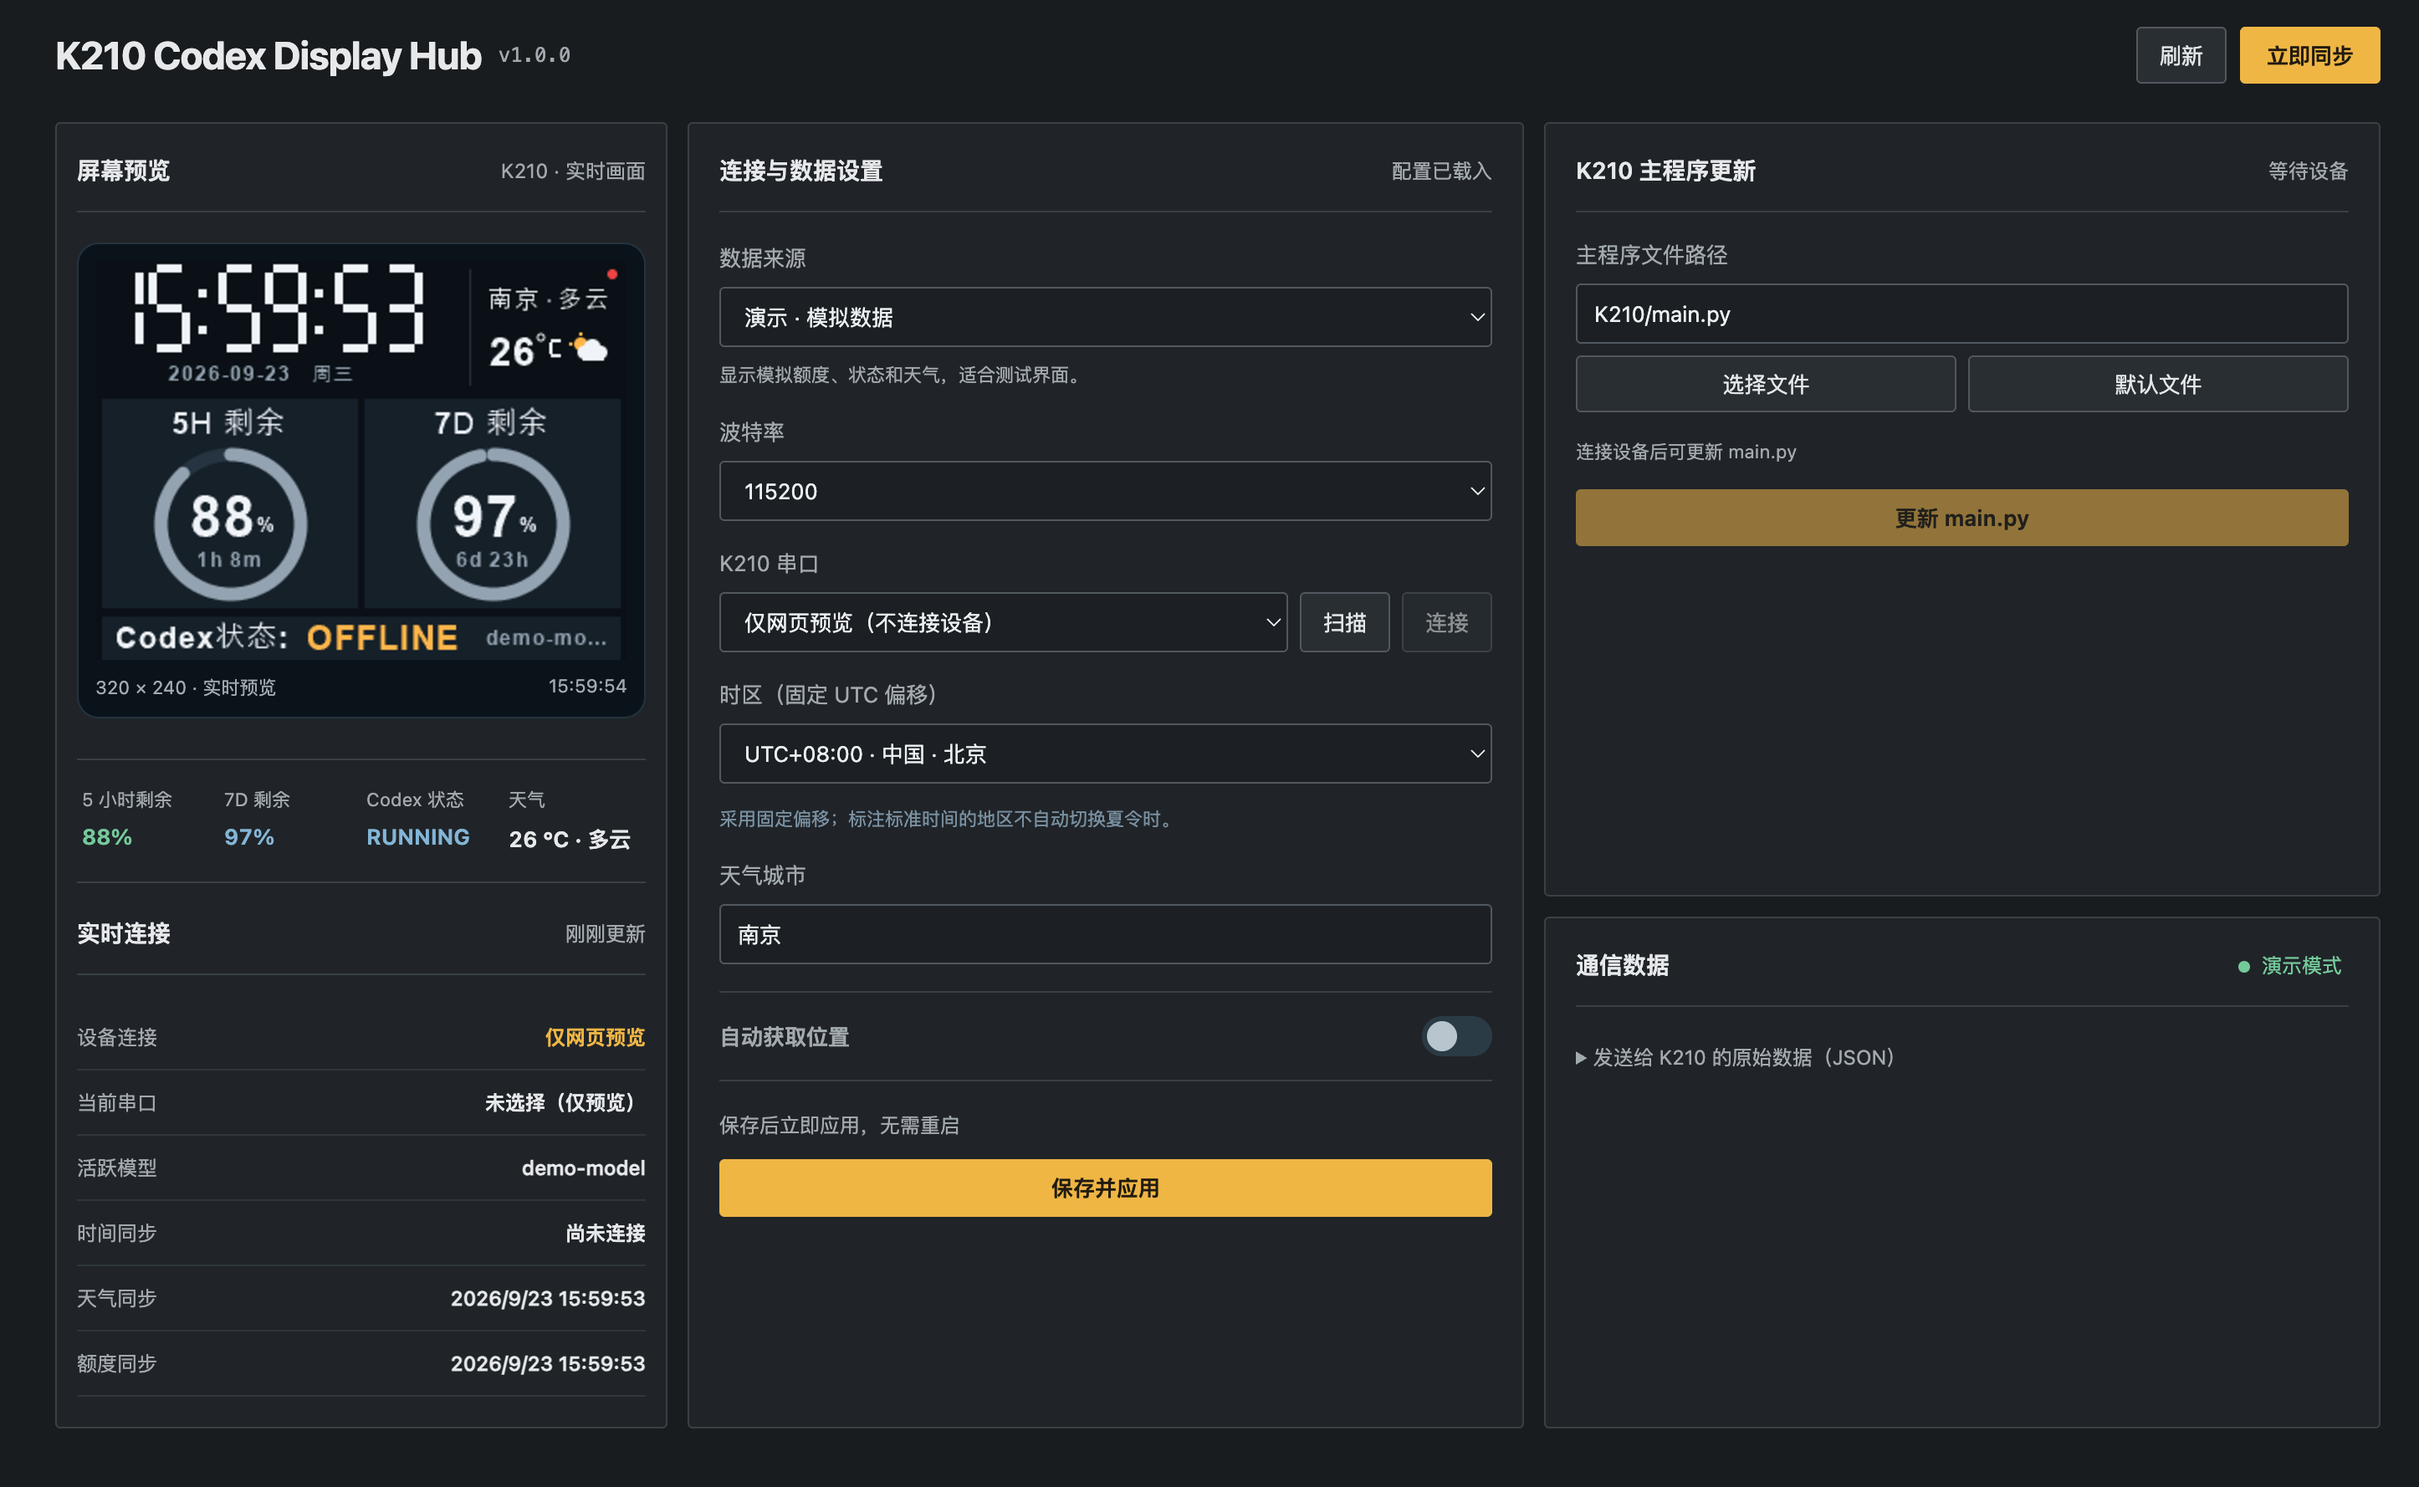
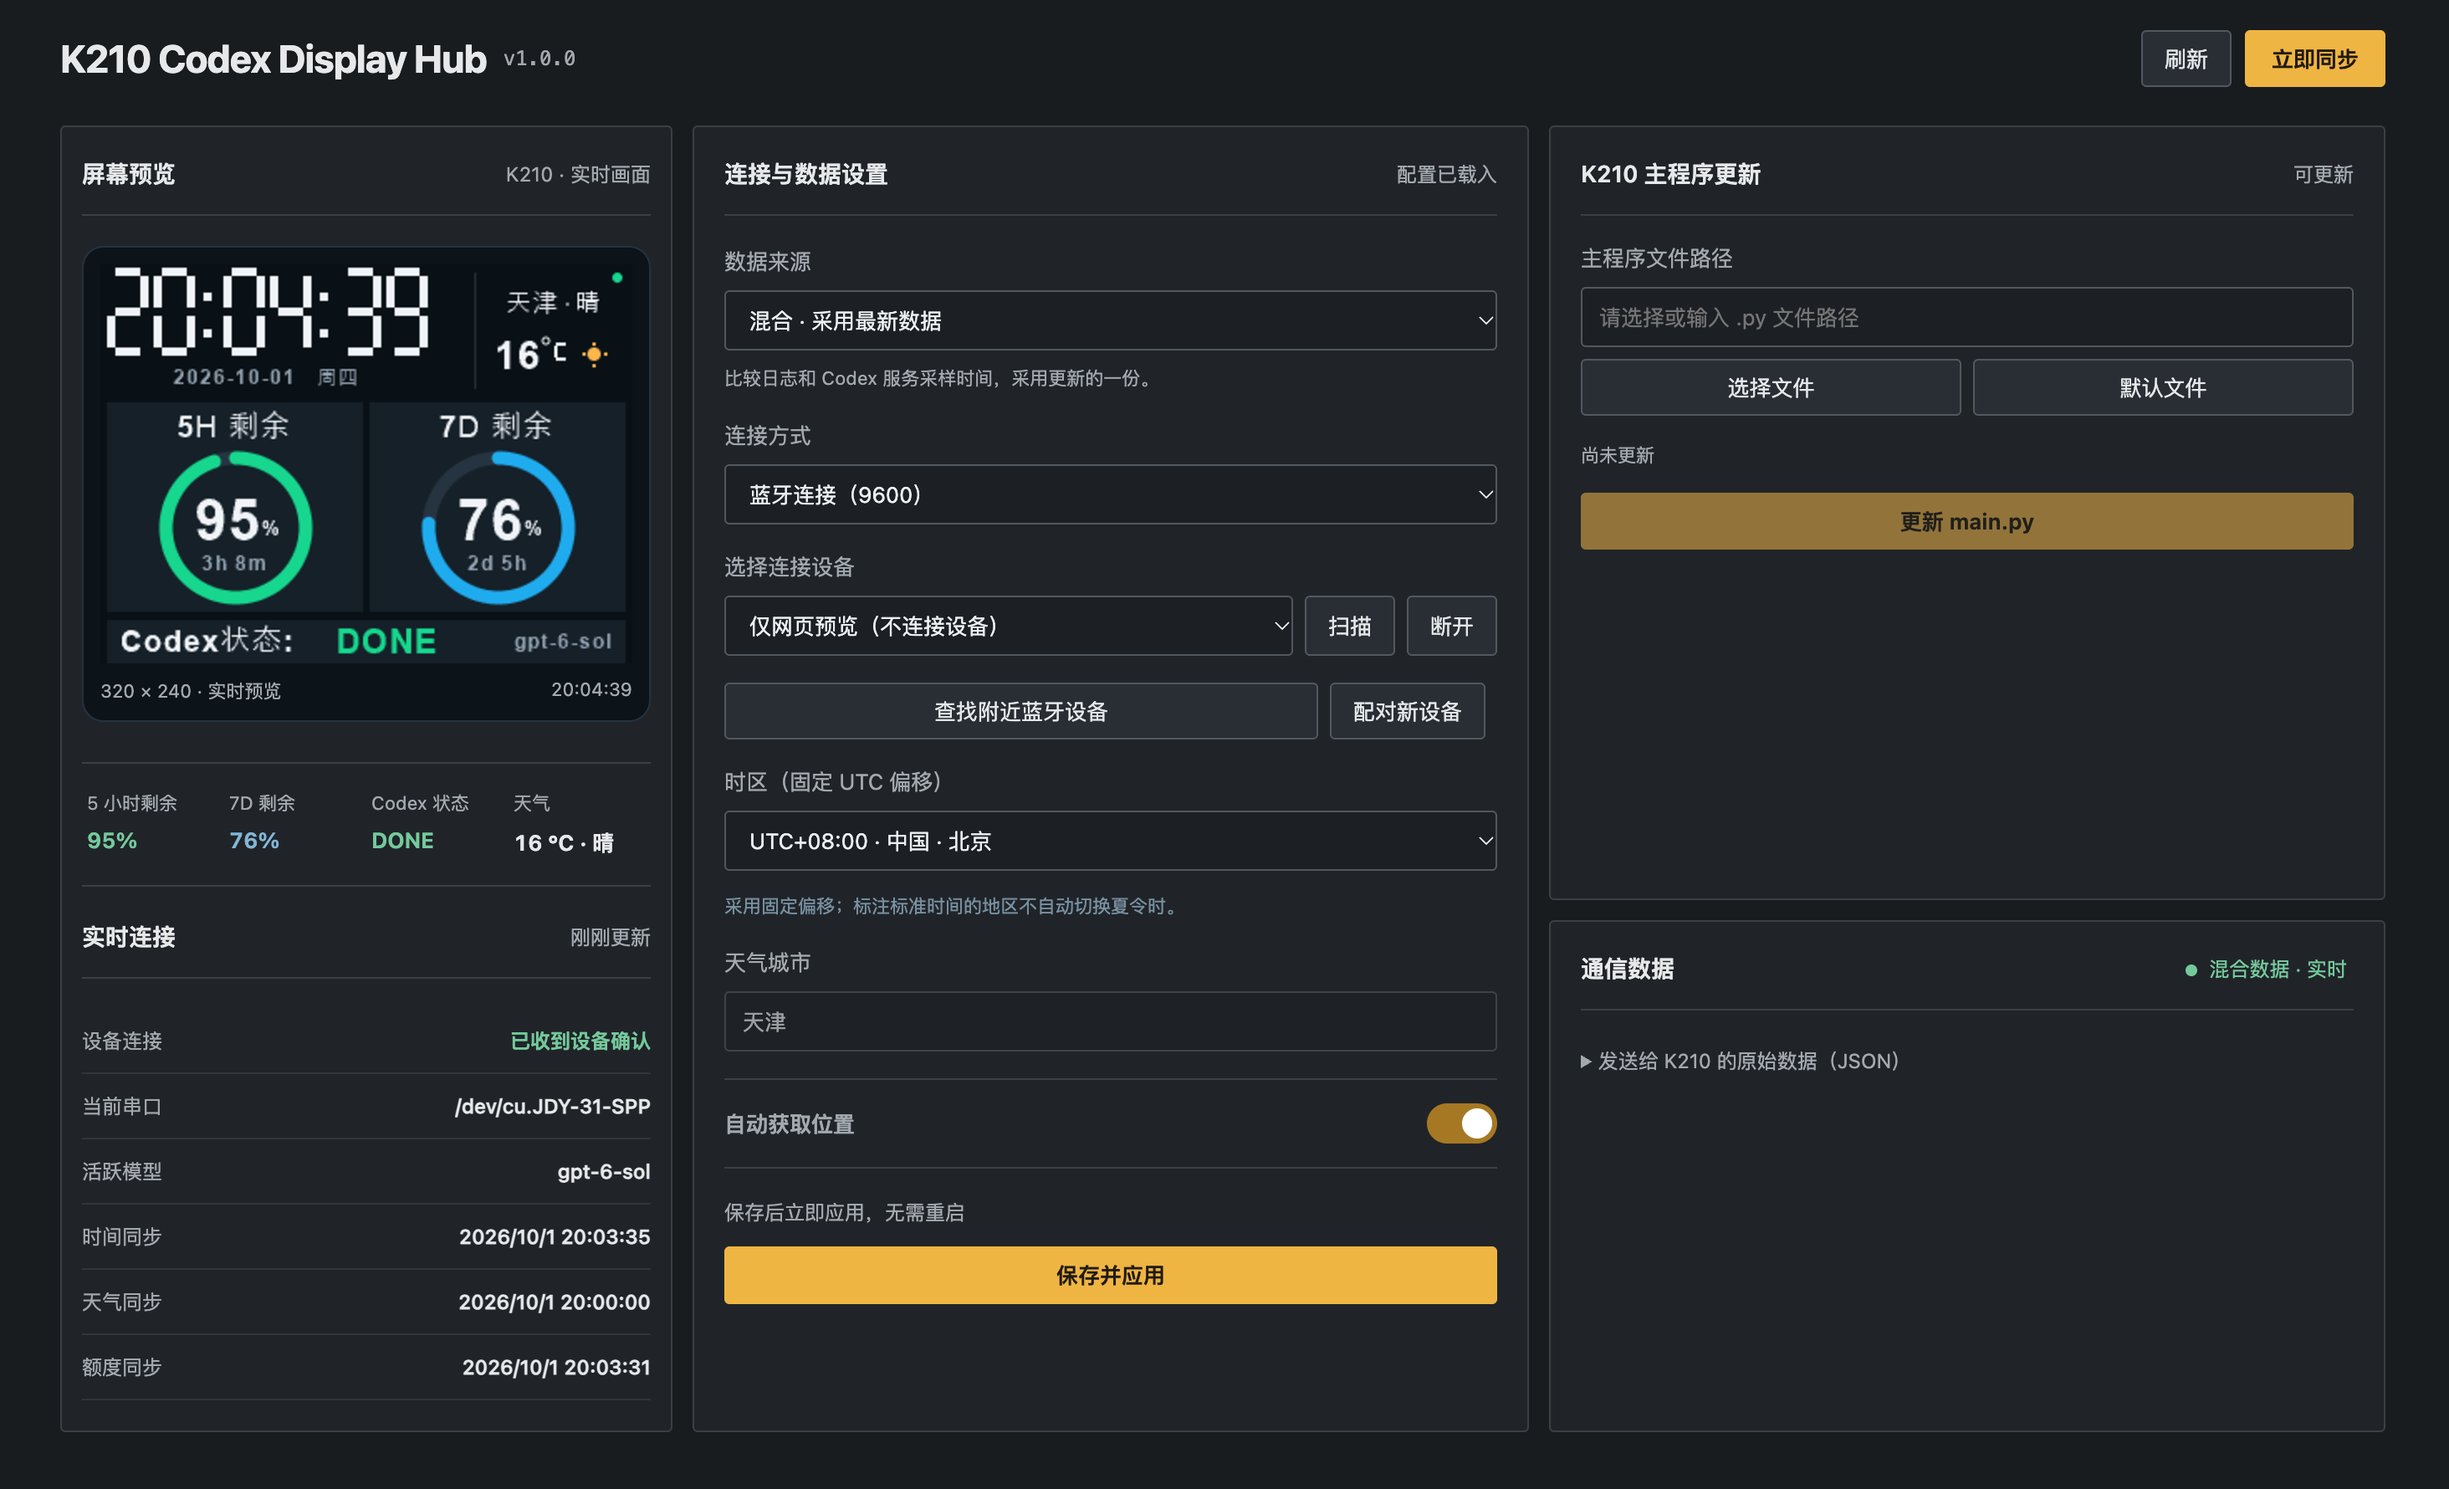
Update

diff --git a/README.md b/README.md
@@ -59,12 +59,6 @@ python3 -m venv .venv
 
 P7 是 K210 的 IO7/TX，接 HC-05 的 RX；P6 是 IO6/RX，接 HC-05 的 TX；两端 GND 必须相连。HC-05 的 VCC 应按所购模块底板的标注供电，TX/RX 使用 3.3V 逻辑电平。
 
-在 **K210 实体屏幕**的“设置”页点击“外接蓝牙”开关，开启后板端改走 P7/P6 的 UART1，波特率固定为 **9600、8N1**；关闭后恢复 Type-C USB 串口的 **115200**。选择会保存在板端，重启后继续生效。若蓝牙串口模块的数据模式波特率不是 9600，请修改 `K210/main.py` 中的 `GPIO_UART_BAUD` 后重新写入板端。上位机网页选择“蓝牙连接（9600）”；已连接设备会显示在列表中，其他设备点击“查找附近蓝牙设备”，未配对设备先点击“配对新设备”，在应用弹出的蓝牙窗口中完成选择或配对，然后点击网页中的“连接”。不会按模块名称过滤设备，也不会把历史上配对但当前未连接的设备当作已连接设备列出。切回 USB 时选择“USB 连接（115200）”和 Type-C 串口。只有收到 K210 确认包才算连接成功。
-
-蓝牙通信由应用直接管理 RFCOMM 数据通道，避免 macOS 虚拟串口在断开后保留失效句柄。点击“断开”会关闭数据通道和该模块的蓝牙连接，并保留所选设备；再次点击“连接”会创建新通道并重新发送首包握手。收到有效 ACK 后，状态提示更新为“已收到 K210 确认，连接成功”。
-
-第一次使用在线更新前，必须先将 `main.py` 和 `program_update.py` 一起写入板端。之后可在网页选择 `.py` 主程序并更新；辅助模块留在板端，旧主程序保留为 `main.py.bak`。如果已挂载 MicroSD，自动更新 `/sd/main.py`，否则更新 `/flash/main.py`。上传后还需等待设备重启确认，不能只凭上传完成判断更新成功。缺少辅助模块时屏幕仍可显示，但在线更新不可用。
-
 ## ⚙ 配置与开发
 
 源码运行时，设置保存在项目根目录的 `config.local.json`；打包应用保存在 `~/Library/Application Support/K210 Codex Display Hub/config.json`。配置模板见 `config.example.json`。默认数据来源为本机日志，天气默认自动定位；网页中可改为手动城市。`config.local.json` 已被 Git 忽略。
